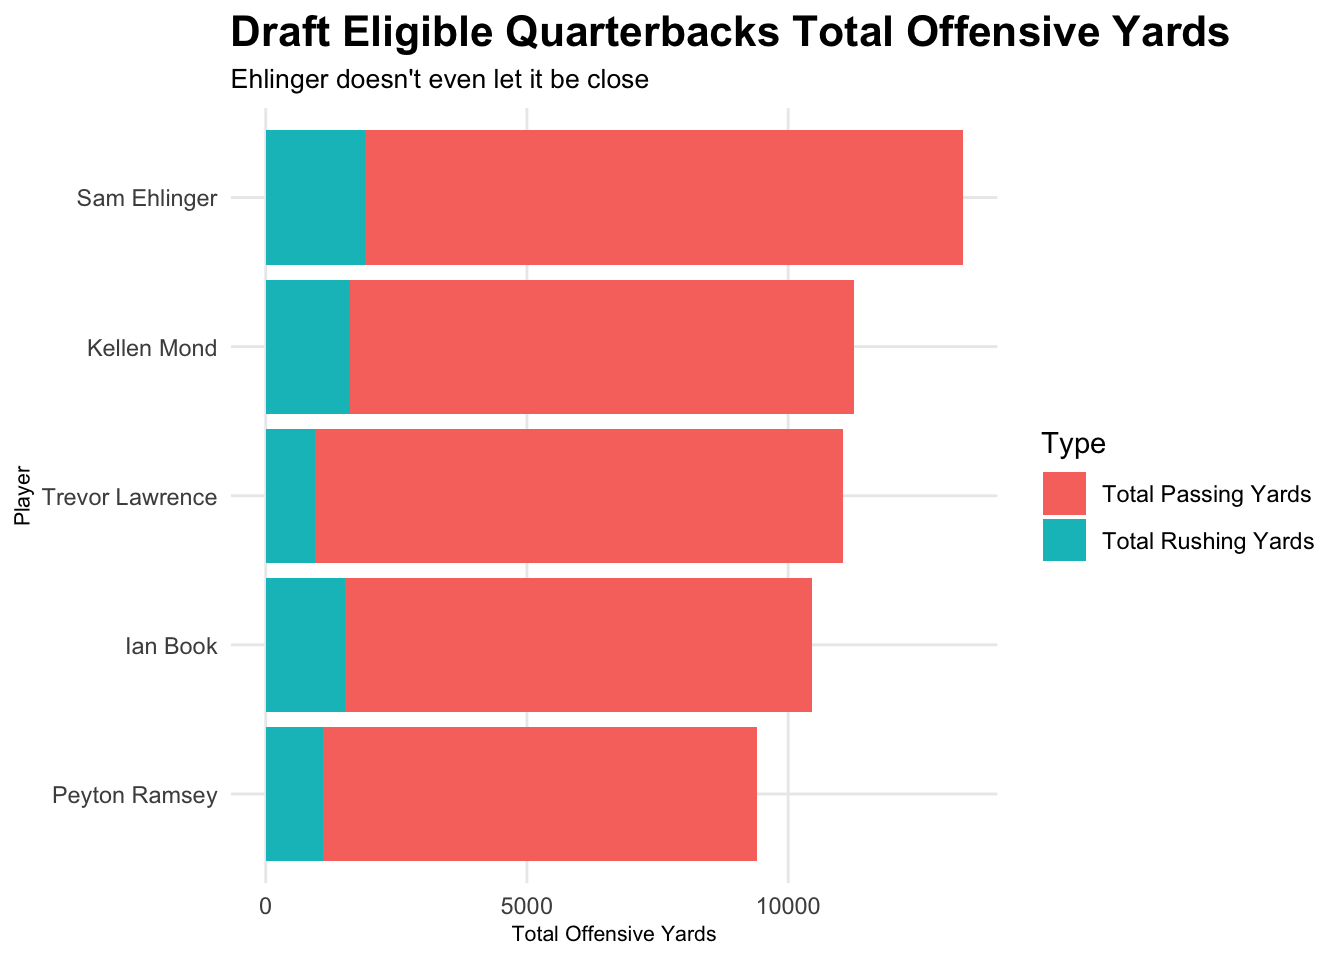
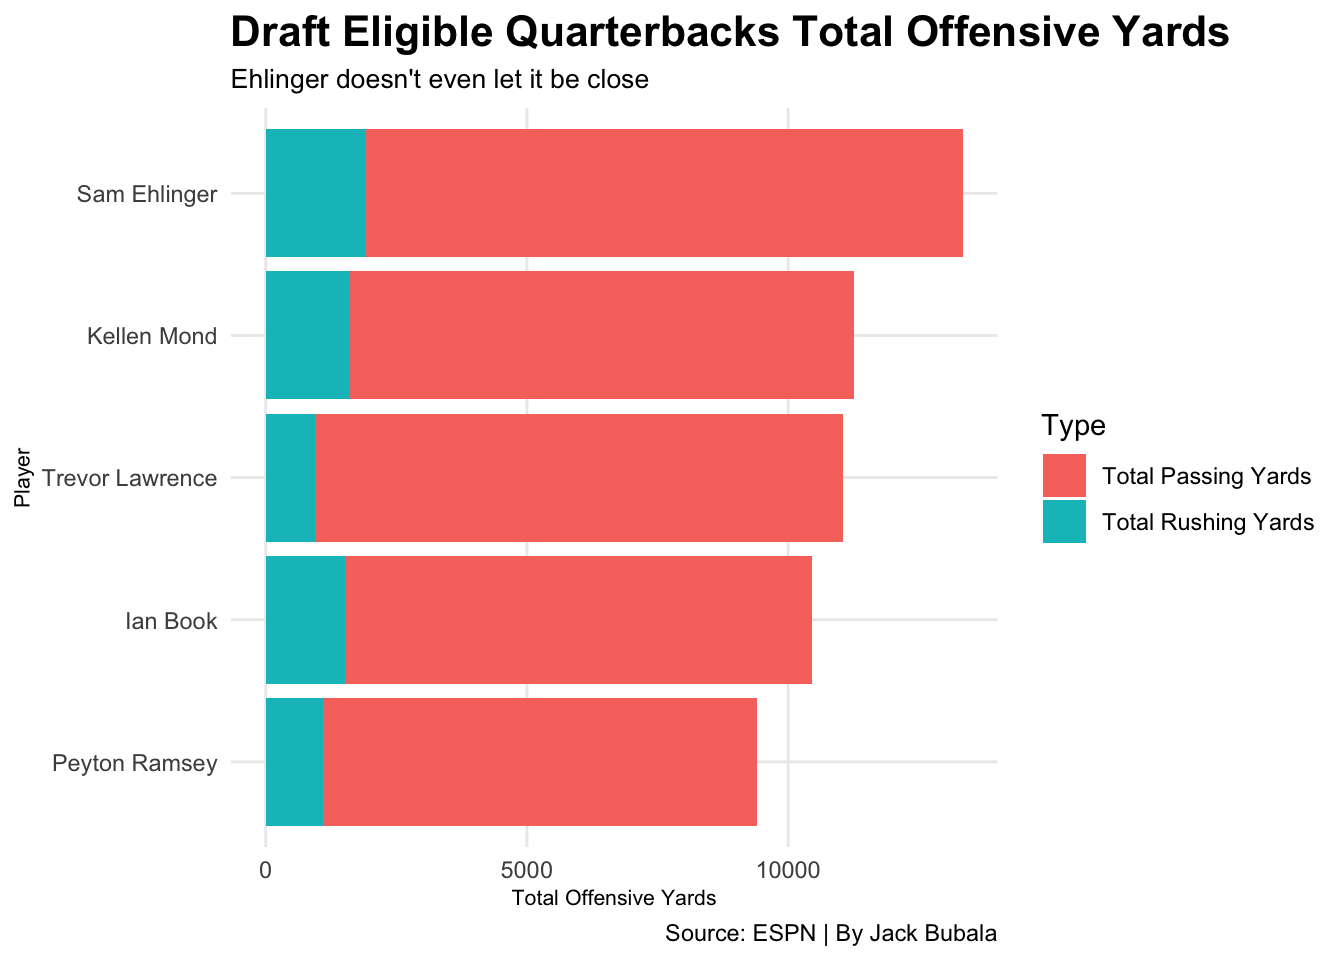
Final upload

diff --git a/2021/04/04/the-chicago-bears-are-now-on-the-clock/index.html b/2021/04/04/the-chicago-bears-are-now-on-the-clock/index.html
@@ -171,7 +171,7 @@ ggplot(careerpassingyards, aes(x = reorder(Name, - `Total Passing Yards`), weigh
        caption = &quot;Source: ESPN | By Jack Bubala&quot;) +                          
   theme_minimal()</code></pre>
 <p><img src="http://jackbubala.github.io/2021/04/04/the-chicago-bears-are-now-on-the-clock/index_files/figure-html/unnamed-chunk-4-1.png" width="672" /></p>
-<p>For the chart above I filtered out all current draft eligible quarterbacks with less than 10,000 career passing yards. As we can see from the chart there is one big name, Trevor Lawrence, expected by many to be the #1 overall pick, the Bears will likely not have a chance at him. That leaves us with three other names, Sam Ehlinger, Shane Buechele, and Brady White. Sam Ehlinger you might know, he’s been the quarterback at Texas the past four years and helped them beat Georgia in the Sugar Bowl to culminate the 2018 season. Now, who are Shane Buechele and Brady White? They are lesser known names likely because they went to SMU and Memphis respectively. However, as can be seen from the chart they should not be taken lightly and if I were Ryan Pace I would most certainly have my eyes on Buechele and White as well as Sam Ehlinger.</p>
+<p>For the chart above I filtered out all draft eligible quarterbacks with less than 10,000 career passing yards. As we can see from the chart there is one big name, Trevor Lawrence, expected by many to be the #1 overall pick, the Bears will likely not have a chance at him. That leaves us with three other names, Sam Ehlinger, Shane Buechele, and Brady White. Sam Ehlinger you might know, he’s been the quarterback at Texas the past four years and helped them beat Georgia in the Sugar Bowl to culminate the 2018 season. Now, who are Shane Buechele and Brady White? They are lesser known names likely because they went to SMU and Memphis respectively. However, as can be seen from the chart they should not be taken lightly and if I were Ryan Pace I would most certainly have my eyes on Buechele and White as well as Sam Ehlinger.</p>
 <p>Now it’s time to take a look at stats from just 2020 and see if these 4 names we see here showed last year that they are capable of playing at the highest level during the hardest year.</p>
 <pre class="r"><code>currentpassingyards &lt;- collegeqbs %&gt;% filter(`2020 Passing Yards` &gt;= 3000)
 ggplot(currentpassingyards, aes(x = reorder(Name, - `2020 Passing Yards`), weight = `2020 Passing Yards`)) + 
@@ -183,7 +183,7 @@ ggplot(currentpassingyards, aes(x = reorder(Name, - `2020 Passing Yards`), weigh
        caption = &quot;Source: ESPN | By Jack Bubala&quot;) +                          
   theme_minimal()</code></pre>
 <p><img src="http://jackbubala.github.io/2021/04/04/the-chicago-bears-are-now-on-the-clock/index_files/figure-html/unnamed-chunk-5-1.png" width="672" /></p>
-<p>There’s some more familiar names for you! For the chart above I filtered out all draft elibgible quarterbacks who threw less than 3,000 yards this year. Lawrence is still on there and has been joined by fellow top-5 pick projection, Zach Wilson from BYU. Mac Jones and Kyle Trask are also on there, you might remember them from their shootout in this year’s SEC Championship game. Sam Ehlinger didn’t make the cut but we see Brady White and Shane Buechele back up here, now this is the tough part. If I were Ryan Pace, and I solely wanted to play to Dalton’s arm, I would take Trask if he’s there; a Power 5 talent with a New Year’s Six win in two appearences and an SEC East division title. However, don’t reach for him, don’t reach when there’s better talent on the board to build the team around, and most important of all, DON’T TRADE UP!! All Bears fans know how that went last time. If we can’t get Trask, I would pick Brady White. White is the much more likely option than Trask and he could go undrafted if not for a team like the Bears seeing his potential. White also has the better resume, having lead Memphis to a New Year’s Six appearance just a year ago and he seems to be a better fit for the Bears system in my opinion.</p>
+<p>There’s some more familiar names for you! For the chart above I filtered out all draft elibgible quarterbacks who threw less than 3,000 yards this year. Lawrence is still on there and has been joined by fellow top-5 pick projection, Zach Wilson from BYU. Mac Jones and Kyle Trask are also on there, you might remember them from their shootout in this year’s SEC Championship game. Sam Ehlinger didn’t make the cut but we see Brady White and Shane Buechele back up here, now this is the tough part. If I were Ryan Pace, and I solely wanted to play to Dalton’s arm, I would take Trask if he’s there; a Power 5 talent with a New Year’s Six win in two appearences and an SEC East division title. However, don’t reach for him, don’t reach when there’s better talent on the board to build the team around, and most important of all, DON’T TRADE UP!! All Bears fans know how that went last time. If we can’t get Trask, I would pick Brady White. White is the much more likely option than Trask and he could go undrafted if not for a team like the Bears seeing his potential. White also has the better resume than Buechele, having lead Memphis to a New Year’s Six appearance just a year ago and he seems to be a better fit for the Bears system in my opinion.</p>
 <p>Now we will do the same thing as the last two charts except for changing passing yards to rushing yards. I will once again be making two bar charts, one for career rushing yards and one for 2020 rushing yards.</p>
 <pre class="r"><code>careerrushingyards &lt;- collegeqbs %&gt;% filter(`Total Rushing Yards` &gt;= 1000)
 ggplot(careerrushingyards, aes(x = reorder(Name, - `Total Rushing Yards`), weight = `Total Rushing Yards`)) + 
@@ -195,7 +195,7 @@ ggplot(careerrushingyards, aes(x = reorder(Name, - `Total Rushing Yards`), weigh
        caption = &quot;Source: ESPN | By Jack Bubala&quot;) +                          
   theme_minimal()</code></pre>
 <p><img src="http://jackbubala.github.io/2021/04/04/the-chicago-bears-are-now-on-the-clock/index_files/figure-html/unnamed-chunk-6-1.png" width="672" /></p>
-<p>For this chart I filtered out all draft eligible quarterbacks who ran for less than 1,000 yards in their career. As can be seen from the data above Sam Ehlinger leads the pack, and by a lot, nearly 300 yards over Kellen Mond, the Texas A&amp;M quarterback. This list is rounded out with some more familiar names such as Ian Book from Notre Dame, maybe bringing him to Chicago and reuniting him with his old tight end Cole Kmet would be a good idea. Justin Fields is on here as well but will likely be gone by the time the Bears get a chance to select. There’s also Peyton Ramsey, who may sound familiar to Chicago fans but that’s likely because he played 20 miles north in Evanston this year and lead the Wildcats to a Big Ten West Division title. Then there’s Zac Thomas and Trey Lance. Lance played for North Dakota State and is being highly touted as a top player by analysts even being projected to go as high as #3, so the Bears will likely not have a shot at him either.Thomas played for Applachian State, a team who won the Sun Belt in both 2018 and 19.</p>
+<p>For this chart I filtered out all draft eligible quarterbacks who ran for less than 1,000 yards in their career. As can be seen from the data above Sam Ehlinger leads the pack, and by a lot, nearly 300 yards over Kellen Mond, the Texas A&amp;M quarterback. This list is rounded out with some more familiar names such as Ian Book from Notre Dame, maybe bringing him to Chicago and reuniting him with his old tight end Cole Kmet would be a good idea. Justin Fields is on here as well but will likely be gone by the time the Bears get a chance to select. There’s also Peyton Ramsey, who may sound familiar to Chicago fans but that’s likely because he played 20 miles north in Evanston this year and lead the Wildcats to a Big Ten West Division title. Then there’s Zac Thomas and Trey Lance. Lance played for North Dakota State and is being highly touted as a top player by analysts even being projected to go as high as #3, so the Bears will likely not have a shot at him either. Thomas played for Applachian State, a team who won the Sun Belt in both 2018 and 19 under Thomas.</p>
 <p>Now we will see if these players show up again when we look at the rushing stats from just this year.</p>
 <pre class="r"><code>currentrushingyards &lt;- collegeqbs %&gt;% filter(`2020 Rushing Yards` &gt;= 250)
 ggplot(currentrushingyards, aes(x = reorder(Name, - `2020 Rushing Yards`), weight = `2020 Rushing Yards`)) + 
@@ -207,7 +207,7 @@ ggplot(currentrushingyards, aes(x = reorder(Name, - `2020 Rushing Yards`), weigh
        caption = &quot;Source: ESPN | By Jack Bubala&quot;) +
   theme_minimal()</code></pre>
 <p><img src="http://jackbubala.github.io/2021/04/04/the-chicago-bears-are-now-on-the-clock/index_files/figure-html/unnamed-chunk-7-1.png" width="672" /></p>
-<p>For this chart above, I filtered out all draft eligible quarterbacks who rushed for less than 250 yards this year. Ian Book now leads the field and by a wide margin. Fields follows and Ehlinger comes after him who we saw leading the last chart. Thomas and Mond come next followed by Ramsey and then we see the re-appearance of Zach Wilson. Wilson is likely only on here because Lance only played one game this fall before Lance declared for the draft as North Dakota State is in the FCS. Now again the tough part, who would I pick. I think that based off running alone Sam Ehlinger would be the best pick coming just in front of Ian Book. If you’re a Notre Dame fan like myself you know that Book is not good in the big game and that will hurt him in the NFL. Ehlinger appears more draft-ready to be and played very well in the Senior Bowl making him my pick if I were drafting just based on rushing.</p>
+<p>For this chart above, I filtered out all draft eligible quarterbacks who rushed for less than 250 yards this year. Ian Book now leads the field and by a wide margin. Fields follows and Ehlinger comes after him, who we saw leading the last chart. Thomas and Mond come next followed by Ramsey, and then we see the re-appearance of Zach Wilson. Wilson is likely only on here because Lance only played one game this fall before Lance declared for the draft as North Dakota State is in the FCS. Now again the tough part, who would I pick. I think that based off running alone Sam Ehlinger would be the best pick coming just in front of Ian Book. If you’re a Notre Dame fan like myself you know that Book is not good in the big game and that will hurt him in the NFL. Ehlinger appears more draft-ready to me and played very well in the Senior Bowl making him my pick if I were drafting just based on rushing.</p>
 <p>Now, before I compile all this data together and make my projection as to who Ryan Pace should draft to run the offense after Andy Dalton, I will first go over that initial decision, to sign Andy Dalton. As I mentioned previously there were only three free agent quarterbacks, including Dalton, who had amassed over 30,000 passing yards and over 1,000 rushing yards in their careers. I will again be creating two charts, but this time they will be bubble charts, and I will be showing where those three quarterbacks rank among current quarterbacks, who were free agents this year, who have either thrown for over 30,000 yards or rushed for over 1,000 yards respectively while also specifically highlighting the three who did both: Andy Dalton, Alex Smith, and Ryan Fitzpatrick.</p>
 <pre class="r"><code>fitzpatrick &lt;- nflqbs %&gt;% filter(Name==&quot;Ryan Fitzpatrick&quot;)
 smith &lt;- nflqbs %&gt;% filter(Name==&quot;Alex Smith&quot;)
@@ -280,7 +280,7 @@ ggplot() +
     panel.grid.minor = element_blank()
     )</code></pre>
 <p><img src="http://jackbubala.github.io/2021/04/04/the-chicago-bears-are-now-on-the-clock/index_files/figure-html/unnamed-chunk-9-1.png" width="672" />
-Once again, Dalton’s circle is the smallest of those highlighted, bad news. While Dalton was a better choice than the other choices who can’t seem to throw; Trubisky, RG3, McCown, Taylor, Bortles, and Winston, he still pales in comparison to Fitzpatrick and Smith. Now, I will cut Pace some slack for not signing Fitzpatrick, as he was picked up by Washington while the Bears were still pursuing Wilson, I will not however forgive Pace for not signing Alex Smith. Yes, Smith is coming off a gruesome leg injury but he won Comeback Player of the Year and that is no small task. There’s one more reason as to why Smith could’ve been chosen solely based off his arm, his last mentee, Ryan Pace’s nightmare, Patrick Mahomes. If Smith was able to usher in Mahomes and help shape him into the player he is, who knows what he’d be able to do with whoever the Bears decide to draft under center. Speaking of which, let’s find out who Smith’s perfect pairing would have been.</p>
+Once again, Dalton’s circle is the smallest of those highlighted, bad news. While Dalton was a better choice than the other choices who can’t seem to throw; Trubisky, RG3, McCown, Taylor, Bortles, and Winston, he still pales in comparison to Fitzpatrick and Smith. Now, I will cut Pace some slack for not signing Fitzpatrick, as he was picked up by Washington while the Bears were still pursuing Wilson, I will not however forgive Pace for not signing Alex Smith. Yes, Smith is coming off a gruesome leg injury but he won Comeback Player of the Year and that is no small task. There’s one more reason as to why Smith could’ve been chosen, his last mentee, Ryan Pace’s nightmare, Patrick Mahomes. If Smith was able to usher in Mahomes and help shape him into the player he is, who knows what he’d be able to do with whoever the Bears decide to draft under center. Speaking of which, let’s find out who Smith’s perfect pairing would have been.</p>
 <p>For this part I will create a stacked bar chart of the draft eligible players with over 8,000 passing yards and over 500 rushing yards that I think would’ve best learned under Smith’s direction and I will pick one from there to be drafted by the Bears.</p>
 <pre class="r"><code>thepick &lt;- collegeqbs %&gt;% 
   filter(`Total Passing Yards` &gt;= 8000, `Total Rushing Yards` &gt;= 500) %&gt;% 
@@ -303,7 +303,7 @@ thepickwide &lt;- thepick %&gt;%
     y = &quot;Total Offensive Yards&quot;,
     title = &quot;Draft Eligible Quarterbacks Total Offensive Yards&quot;,
     subtitle = &quot;Ehlinger doesn&#39;t even let it be close&quot;,
-    source = &quot;ESPN&quot;
+    caption = &quot;Source: ESPN | By Jack Bubala&quot;
   ) +
   theme_minimal() + 
   theme(
@@ -313,7 +313,7 @@ thepickwide &lt;- thepick %&gt;%
     panel.grid.minor = element_blank()
   )</code></pre>
 <p><img src="http://jackbubala.github.io/2021/04/04/the-chicago-bears-are-now-on-the-clock/index_files/figure-html/unnamed-chunk-10-1.png" width="672" />
-The pick is in: Sam Ehlinger. Ehlinger is not projected to go very highly in the draft making this selection even better as Pace can build a team around him, help retool the defense, and get a solid replacement for Kyle Long. The icing on the cake, Tom Herman. Herman was the football coach at the University of Texas, Ehlinger’s school, for the past 4 years all while Ehlinger was there. Herman was hired this offseason as an assistant coach by the Chicago Bears. Many analysts, including Adam Schefter, were puzzled by the move wondering what it could be. Now, it seems apparent. Herman is going to get a chance to mentor Ehlinger again, now on a much bigger stage. You thought playing for Texas was hard, just wait unti you step inside Soldier Field. Bears fans will boo their own offense with no mercy. Pace knows this, but he also has a coach on his staff who knows Sam better than anyone. That is why I believe Pace will finally make the right call and pick the guy. He can be an underdog and doubted which Pace seems to like, but he will be the guy. The stats say it and hopefully Pace will too. April 30th or May 1st, Sam Ehlinger will be drafted. Hopefully, he can keep wearing the orange he’s worn for the past four years but this time in Chicago. This is Pace’s last shot. If the Bears don’t have a glimmer of hope by the end of 2022 if not 2021, then Pace will likely be fired. He already messed up in choosing Dalton over Smith, now make it right and prove to this city and most importantly to yourself that you’re not just a guy who can draft a defense and was double-doinked out of Chicago.</p>
+The pick is in: Sam Ehlinger. Ehlinger is not projected to go very highly in the draft making this selection even better as Pace can build a team around him, help retool the defense, and get a solid replacement for Kyle Long. The icing on the cake, Tom Herman. Herman was the football coach at the University of Texas, Ehlinger’s school, for the past 4 years all while Ehlinger was there. Herman was hired this offseason as an assistant coach by the Chicago Bears. Many analysts, including Adam Schefter, were puzzled by the move wondering what it could mean. Now, it seems apparent. Herman is going to get a chance to mentor Ehlinger again, but on a much bigger stage. You thought playing for Texas was hard, just wait unti you step inside Soldier Field. Bears fans will boo their own offense with no mercy. Pace knows this, but he also has a coach on his staff who knows Sam better than anyone. That is why I believe Pace will finally make the right call and pick the guy. He can be an underdog and doubted which Pace seems to like, but he will be the guy. The stats say it and hopefully Pace will too. April 30th or May 1st, Sam Ehlinger will be drafted. Hopefully, he can keep wearing the orange he’s worn for the past four years, but this time, in Chicago. This is Pace’s last shot. If the Bears don’t have a glimmer of hope by the end of 2022, if not 2021, then Pace will likely be fired. He already messed up in choosing Dalton over Smith, now he can make it right and prove to this city and most importantly to himself that he’s not just a guy who can draft a defense but was double-doinked out of Chicago.</p>
 
     </div>
   </article>
